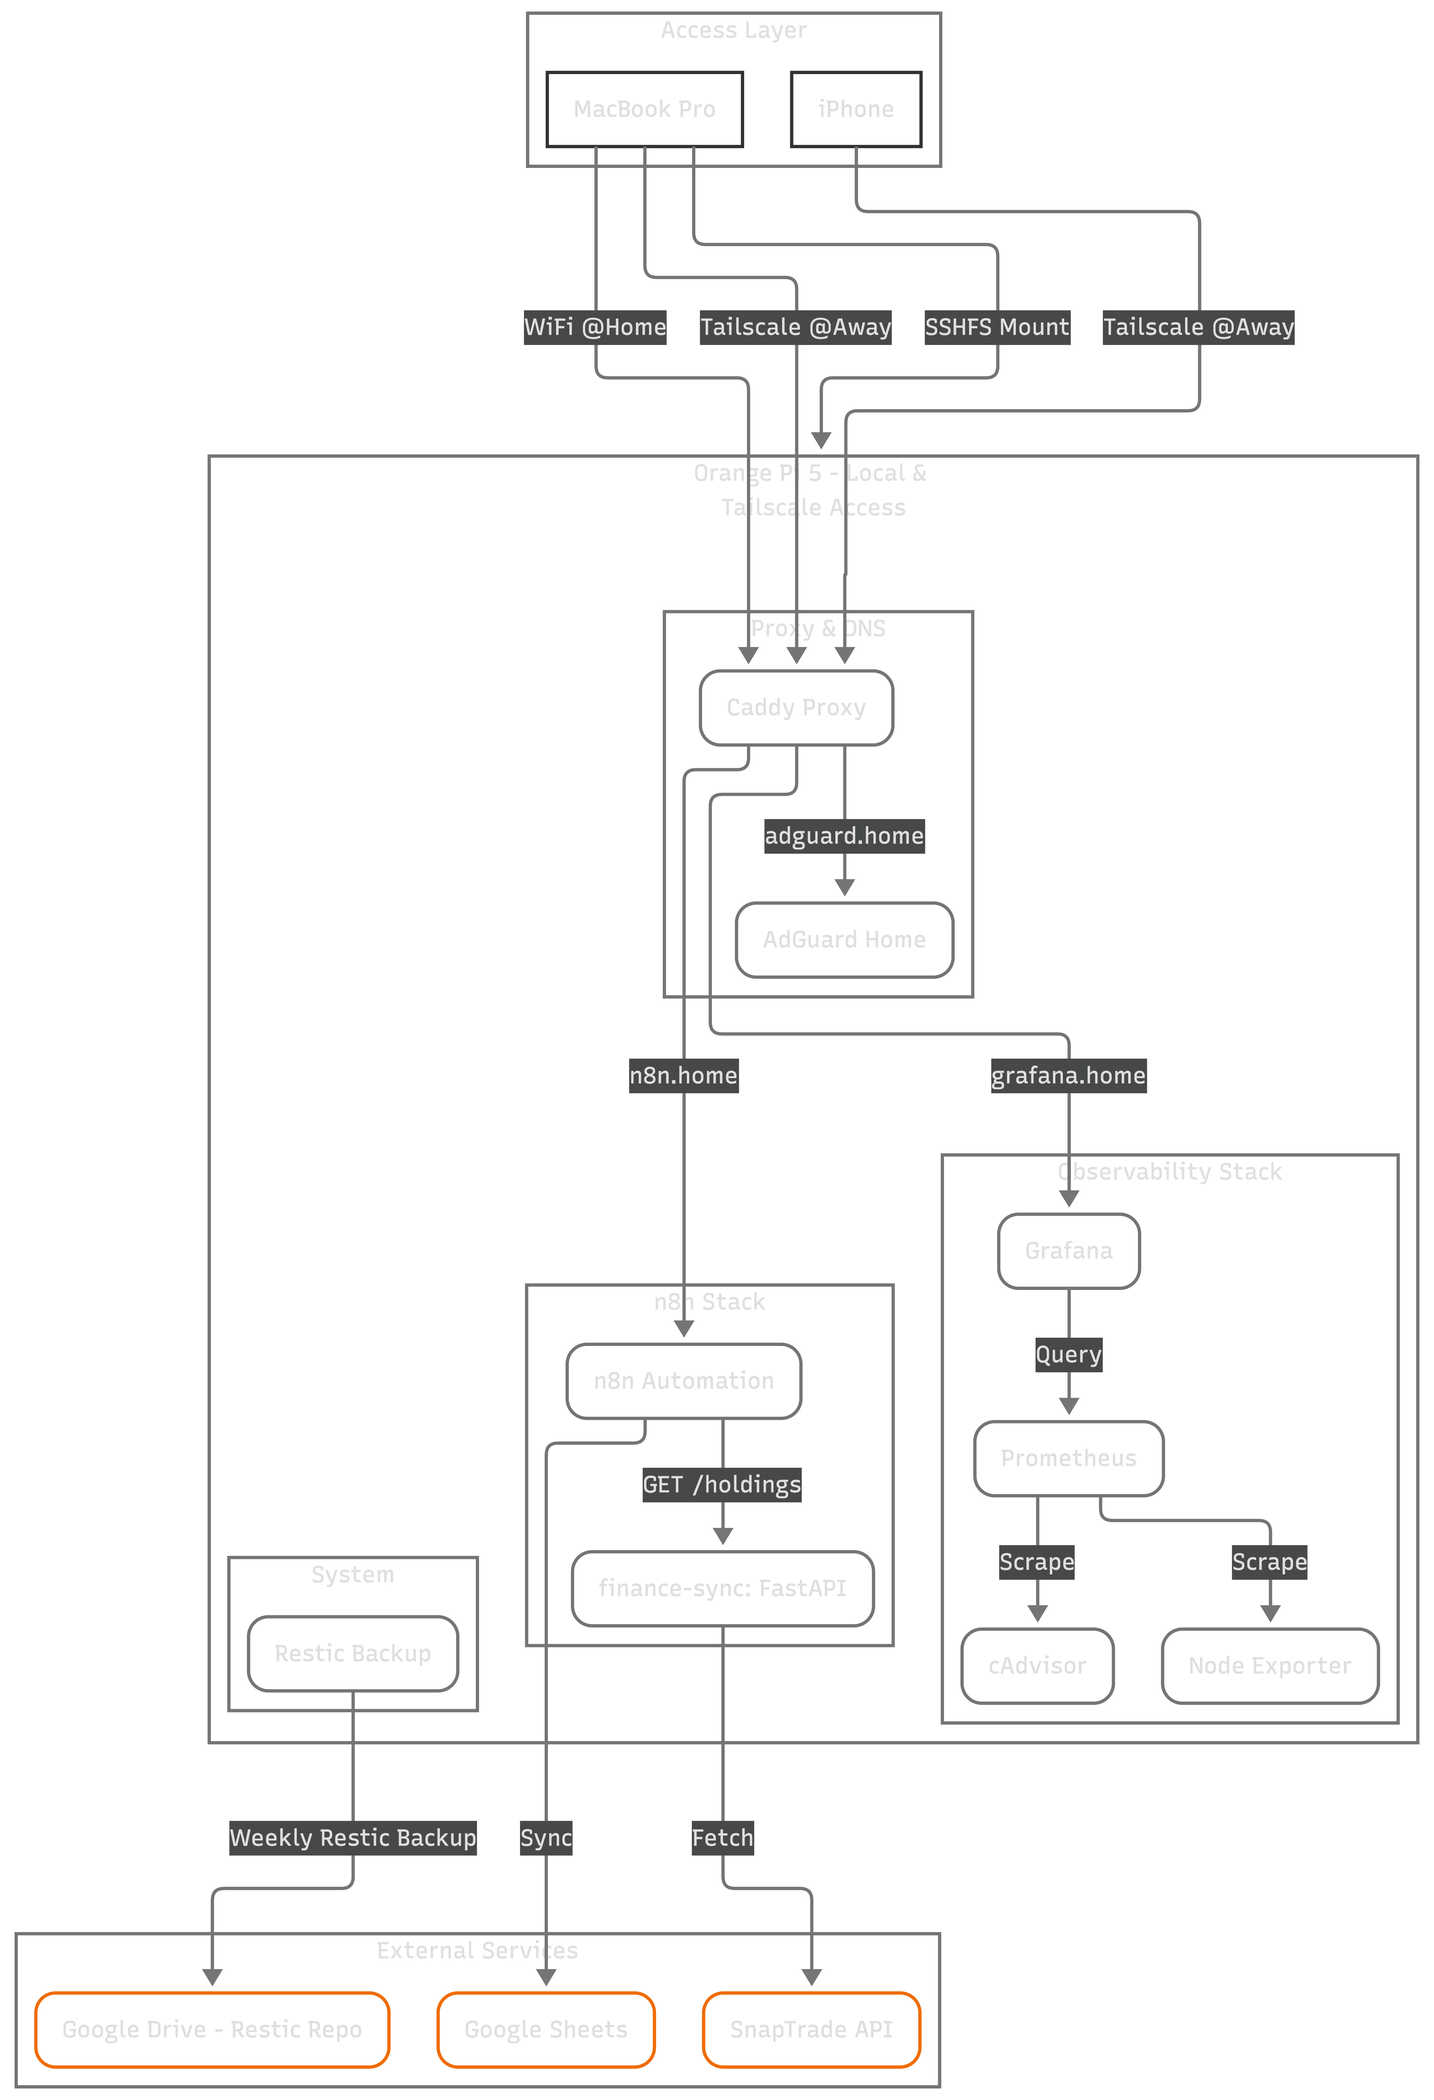
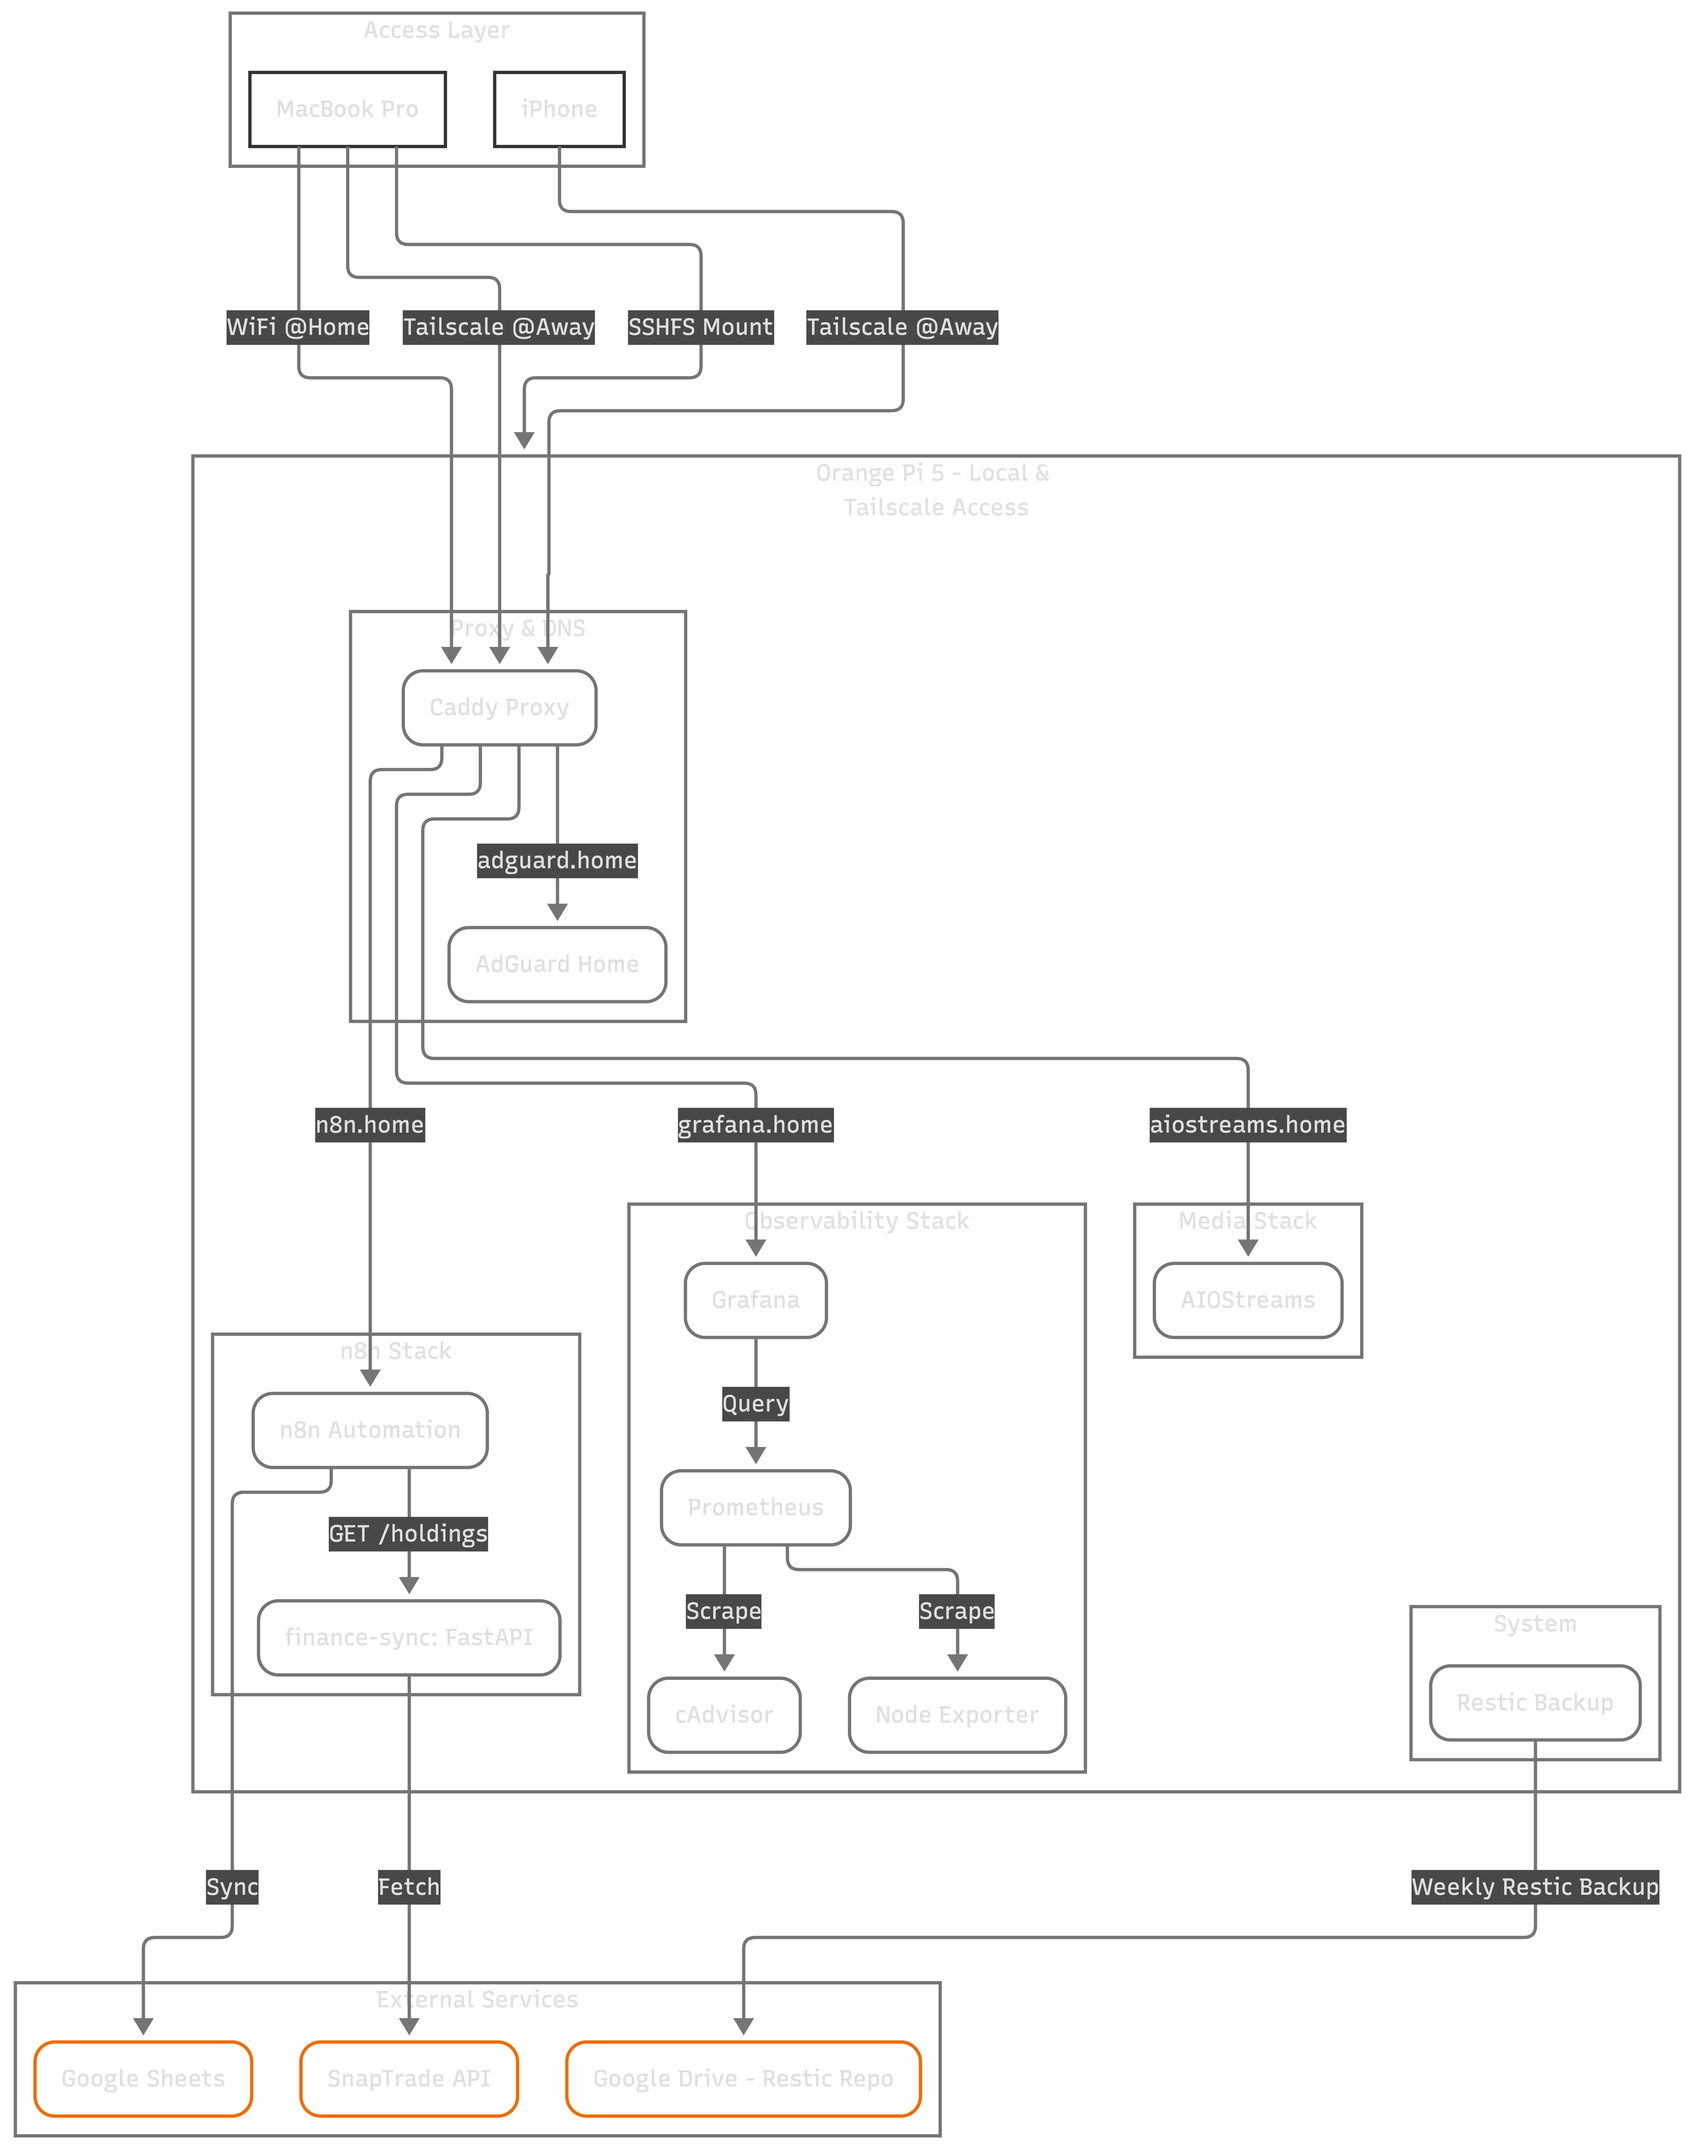
chore: home server setup updates

diff --git a/site/layouts/talks/section.html b/site/layouts/talks/section.html
@@ -9,7 +9,7 @@
 {{ end }}
 
 {{ define "header" }}
-<header class="tw-container tw-mx-auto tw-p-4">
+<header class="tw-container tw-mx-auto tw-p-3">
   {{ partial "header-navigation.html" . }}
   {{ partial "single-header-summary.html" . }}
 </header>
@@ -17,7 +17,7 @@
 
 
 {{ define "main" }}
-<main class="tw-container tw-mx-auto tw-px-4">
+<main class="tw-container tw-mx-auto tw-px-3">
   <!-- article[role=main] is used in many places, remember not to change it-->
   <!-- class="content" is inherited from bulma, check src/main/css/lib/bulma-content.css -->
   <article role="main" class="content md:tw-w-3/5 tw-mx-auto">

diff --git a/site/content/notes/home-server-setup.md b/site/content/notes/home-server-setup.md
@@ -64,18 +64,17 @@ a container *will* be compromised at some point with something outside my contro
 
 To mitigate the blast radius of such an event, I implement a "Zero Trust" policy at multiple levels:
 
-*   **Network Isolation**: I never run containers in `host` network mode unless absolutely needed. Each stack runs in its own isolated bridge network, which prevents a compromised container from sniffing traffic on the host interface.
-*   **Strict Resource Quotas**: To prevent a compromised container from crashing the entire system (a Denial of Service attack), every single service has `cpus` and `memory` limits defined. If a process goes rogue, it only kills itself, not the Pi.
-*   **One-Way Access**: While my trusted devices (laptop, phone) can access the Pi via SSH or HTTPS, the Pi is strictly forbidden from initiating connections to other devices on my local network. This containment ensures that a breach on the Pi doesn't become a pivot point to attack my workstation.
-*   **Pinned Image Versions**: I never use the `:latest` tag for container images. Using `latest` is asking for a supply chain attack during a routine update. Every image is pinned to a specific version or digest that I've verified.
-
-These principles of isolation and quota management are what dictated how I eventually organized my services.
+* I never run containers in `host` network mode unless absolutely needed. Each stack runs in its own isolated bridge network, which prevents a compromised container from sniffing traffic on the host interface.
+* To prevent a compromised container from crashing the entire system (a Denial of Service attack), every single service has `cpus` and `memory` limits defined. If a container is compromised, it only kills itself but not the Pi.
+* While my trusted devices (laptop, phone) can access the Pi via SSH or HTTPS, the Pi can't initiate connections to other devices on my local network. This containment ensures that a breach on the Pi doesn't become a pivot point to attack my other devices.
+* I never use the `:latest` tag for container images because using `latest` is asking for a supply chain attack during a routine update. Instead, I pin every image to a specific version or digest that I've verified.
 
 ## Stacks
 
 I've organized the system into independent Docker Compose stacks. This separation of concerns makes updates and troubleshooting much easier.
-Also since Gemini is aware of the setup, it's super simple to make refactors in the codebase. For example my gateway and media
-server were in the same docker-compose file. It took a single prompt to make the refactor and have them on separate stacks.
+Also, since Gemini is aware of the setup, it's super simple to make refactors in the codebase. For example, initially my gateway and media
+server were in the same `docker-compose.yaml` file, the refactor to multiple files including verification that the services were
+up and running like before took a single prompt.
 
 Here is a breakdown of the core stacks currently running:
 
@@ -108,6 +107,11 @@ Then in the n8n UI I configured a workflow to write the data to Google Sheets.
 This workflow runs regularly portfolio adjustment preferences.
 
 Whenever I need to make an analysis of my financials, I give the spreadsheet to Gemini and ask it to draw conclusions based on my goals.
+
+### Media Server: AIOStream
+
+My favorite streaming platform is Stremio because it can play many video formats on the web through a streaming server.
+I use it to play my favorite anime and to learn Japanese with my chrom extension [Subtitle Insights](https://mauriciopoppe.github.io/SubtitleInsights).
 
 ### Observability: Prometheus & Grafana
 
